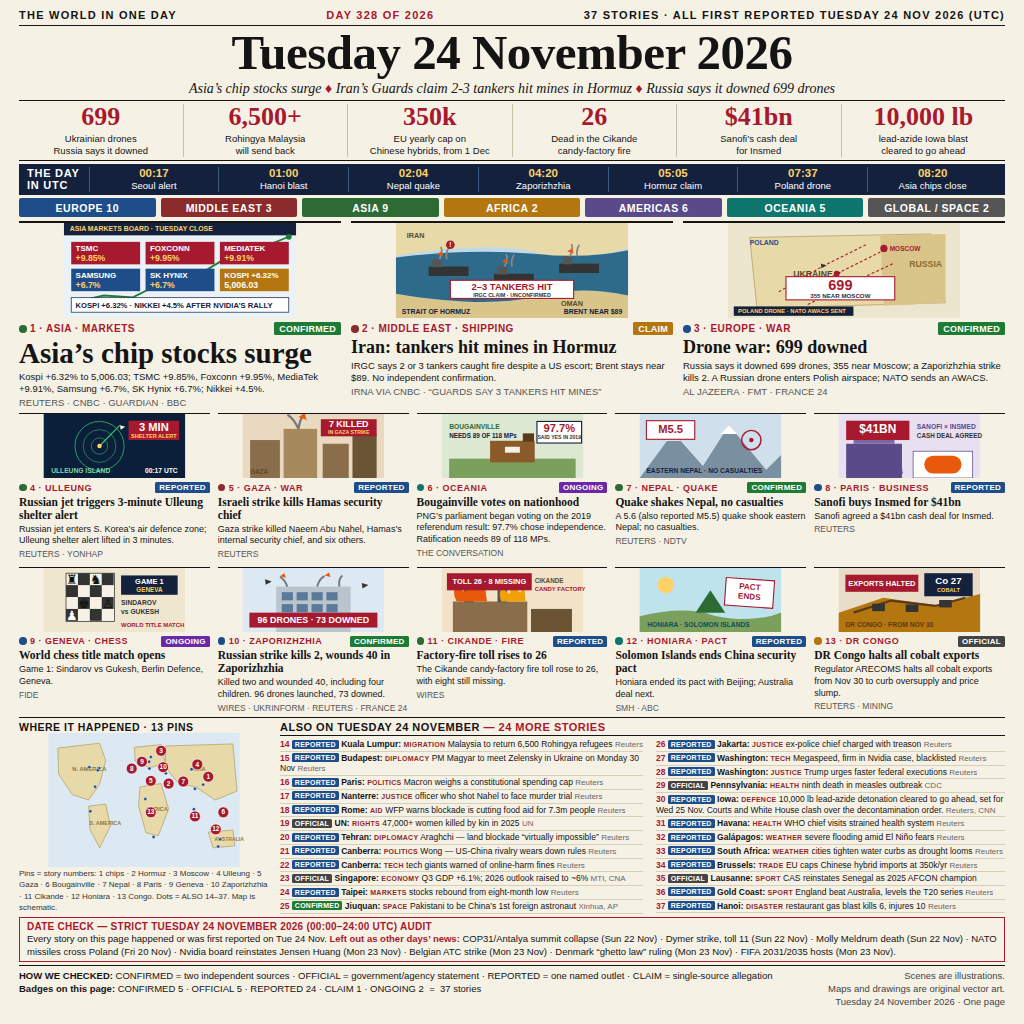
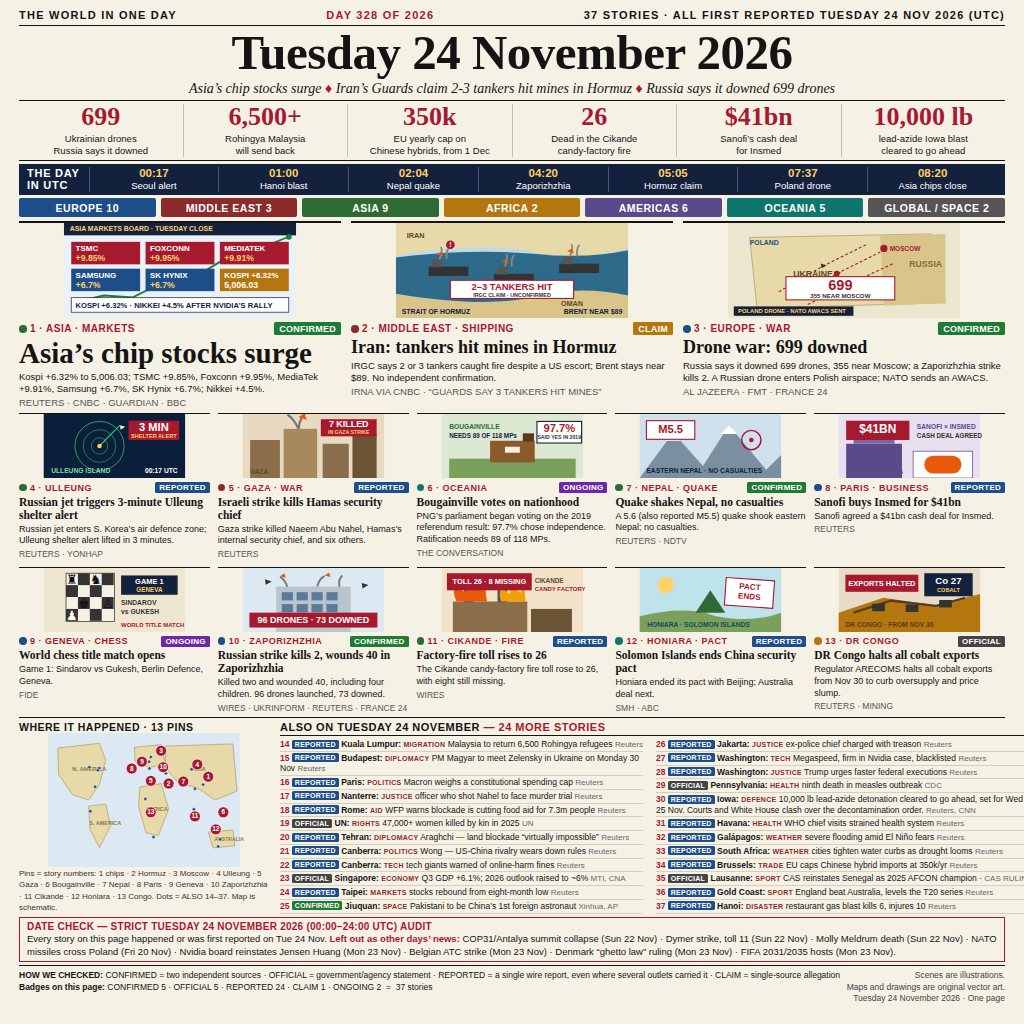
news-image-20261124 round 2 fix 7: REPORTED def -> 'a single wire report, even where several outlets carried it' (was 'one named outlet', contradicted #30 Reuters, CNN); #35 gains source 'CAS RULING' (was the only sourceless item). Footer font 19->17px: longer def wrapped badges to 3 lines + note to

diff --git a/build/front.html b/build/front.html
@@ -83,7 +83,7 @@ h1{font-size:98px;line-height:1.04;text-align:center;letter-spacing:-1px;padding
 .datecheck .b{font-size:19px;line-height:1.3;margin-top:3px}
 .datecheck .b b{color:#A6192E}
 .footer{display:flex;justify-content:space-between;align-items:flex-start;margin-top:6px;
-  border-top:2px solid #141414;padding-top:8px;font-family:Arial,Helvetica,sans-serif;font-size:19px;line-height:1.35}
+  border-top:2px solid #141414;padding-top:8px;font-family:Arial,Helvetica,sans-serif;font-size:17px;line-height:1.35}
 .footer .badges b{color:#141414}
 .footer .note{text-align:right;color:#444}
 </style></head><body><div class="page">
@@ -447,7 +447,7 @@ h1{font-size:98px;line-height:1.04;text-align:center;letter-spacing:-1px;padding
 <div class="it"><b>32</b> <span class="bdg b-rep">REPORTED</span> <span class="pl">Gal&aacute;pagos:</span> <span class="tg">WEATHER</span> severe flooding amid El Ni&ntilde;o fears <span class="sr">Reuters</span></div>
 <div class="it"><b>33</b> <span class="bdg b-rep">REPORTED</span> <span class="pl">South Africa:</span> <span class="tg">WEATHER</span> cities tighten water curbs as drought looms <span class="sr">Reuters</span></div>
 <div class="it"><b>34</b> <span class="bdg b-rep">REPORTED</span> <span class="pl">Brussels:</span> <span class="tg">TRADE</span> EU caps Chinese hybrid imports at 350k/yr <span class="sr">Reuters</span></div>
-<div class="it"><b>35</b> <span class="bdg b-off">OFFICIAL</span> <span class="pl">Lausanne:</span> <span class="tg">SPORT</span> CAS reinstates Senegal as 2025 AFCON champion</div>
+<div class="it"><b>35</b> <span class="bdg b-off">OFFICIAL</span> <span class="pl">Lausanne:</span> <span class="tg">SPORT</span> CAS reinstates Senegal as 2025 AFCON champion &middot; <span class="sr">CAS RULING</span></div>
 <div class="it"><b>36</b> <span class="bdg b-rep">REPORTED</span> <span class="pl">Gold Coast:</span> <span class="tg">SPORT</span> England beat Australia, levels the T20 series <span class="sr">Reuters</span></div>
 <div class="it"><b>37</b> <span class="bdg b-rep">REPORTED</span> <span class="pl">Hanoi:</span> <span class="tg">DISASTER</span> restaurant gas blast kills 6, injures 10 <span class="sr">Reuters</span></div>
 </div>
@@ -459,7 +459,7 @@ h1{font-size:98px;line-height:1.04;text-align:center;letter-spacing:-1px;padding
 <div class="b">Every story on this page happened or was first reported on Tue 24 Nov. <b>Left out as other days&rsquo; news:</b> COP31/Antalya summit collapse (Sun 22 Nov) &middot; Dymer strike, toll 11 (Sun 22 Nov) &middot; Molly Meldrum death (Sun 22 Nov) &middot; NATO missiles cross Poland (Fri 20 Nov) &middot; Nvidia board reinstates Jensen Huang (Mon 23 Nov) &middot; Belgian ATC strike (Mon 23 Nov) &middot; Denmark &ldquo;ghetto law&rdquo; ruling (Mon 23 Nov) &middot; FIFA 2031/2035 hosts (Mon 23 Nov).</div>
 </div>
 <div class="footer">
-<div class="badges"><b>HOW WE CHECKED:</b> CONFIRMED = two independent sources &middot; OFFICIAL = government/agency statement &middot; REPORTED = one named outlet &middot; CLAIM = single-source allegation<br>
+<div class="badges"><b>HOW WE CHECKED:</b> CONFIRMED = two independent sources &middot; OFFICIAL = government/agency statement &middot; REPORTED = a single wire report, even where several outlets carried it &middot; CLAIM = single-source allegation<br>
 <b>Badges on this page:</b> CONFIRMED 5 &middot; OFFICIAL 5 &middot; REPORTED 24 &middot; CLAIM 1 &middot; ONGOING 2 &nbsp;=&nbsp; 37 stories</div>
 <div class="note">Scenes are illustrations.<br>Maps and drawings are original vector art.<br>Tuesday 24 November 2026 &middot; One page</div>
 </div>
